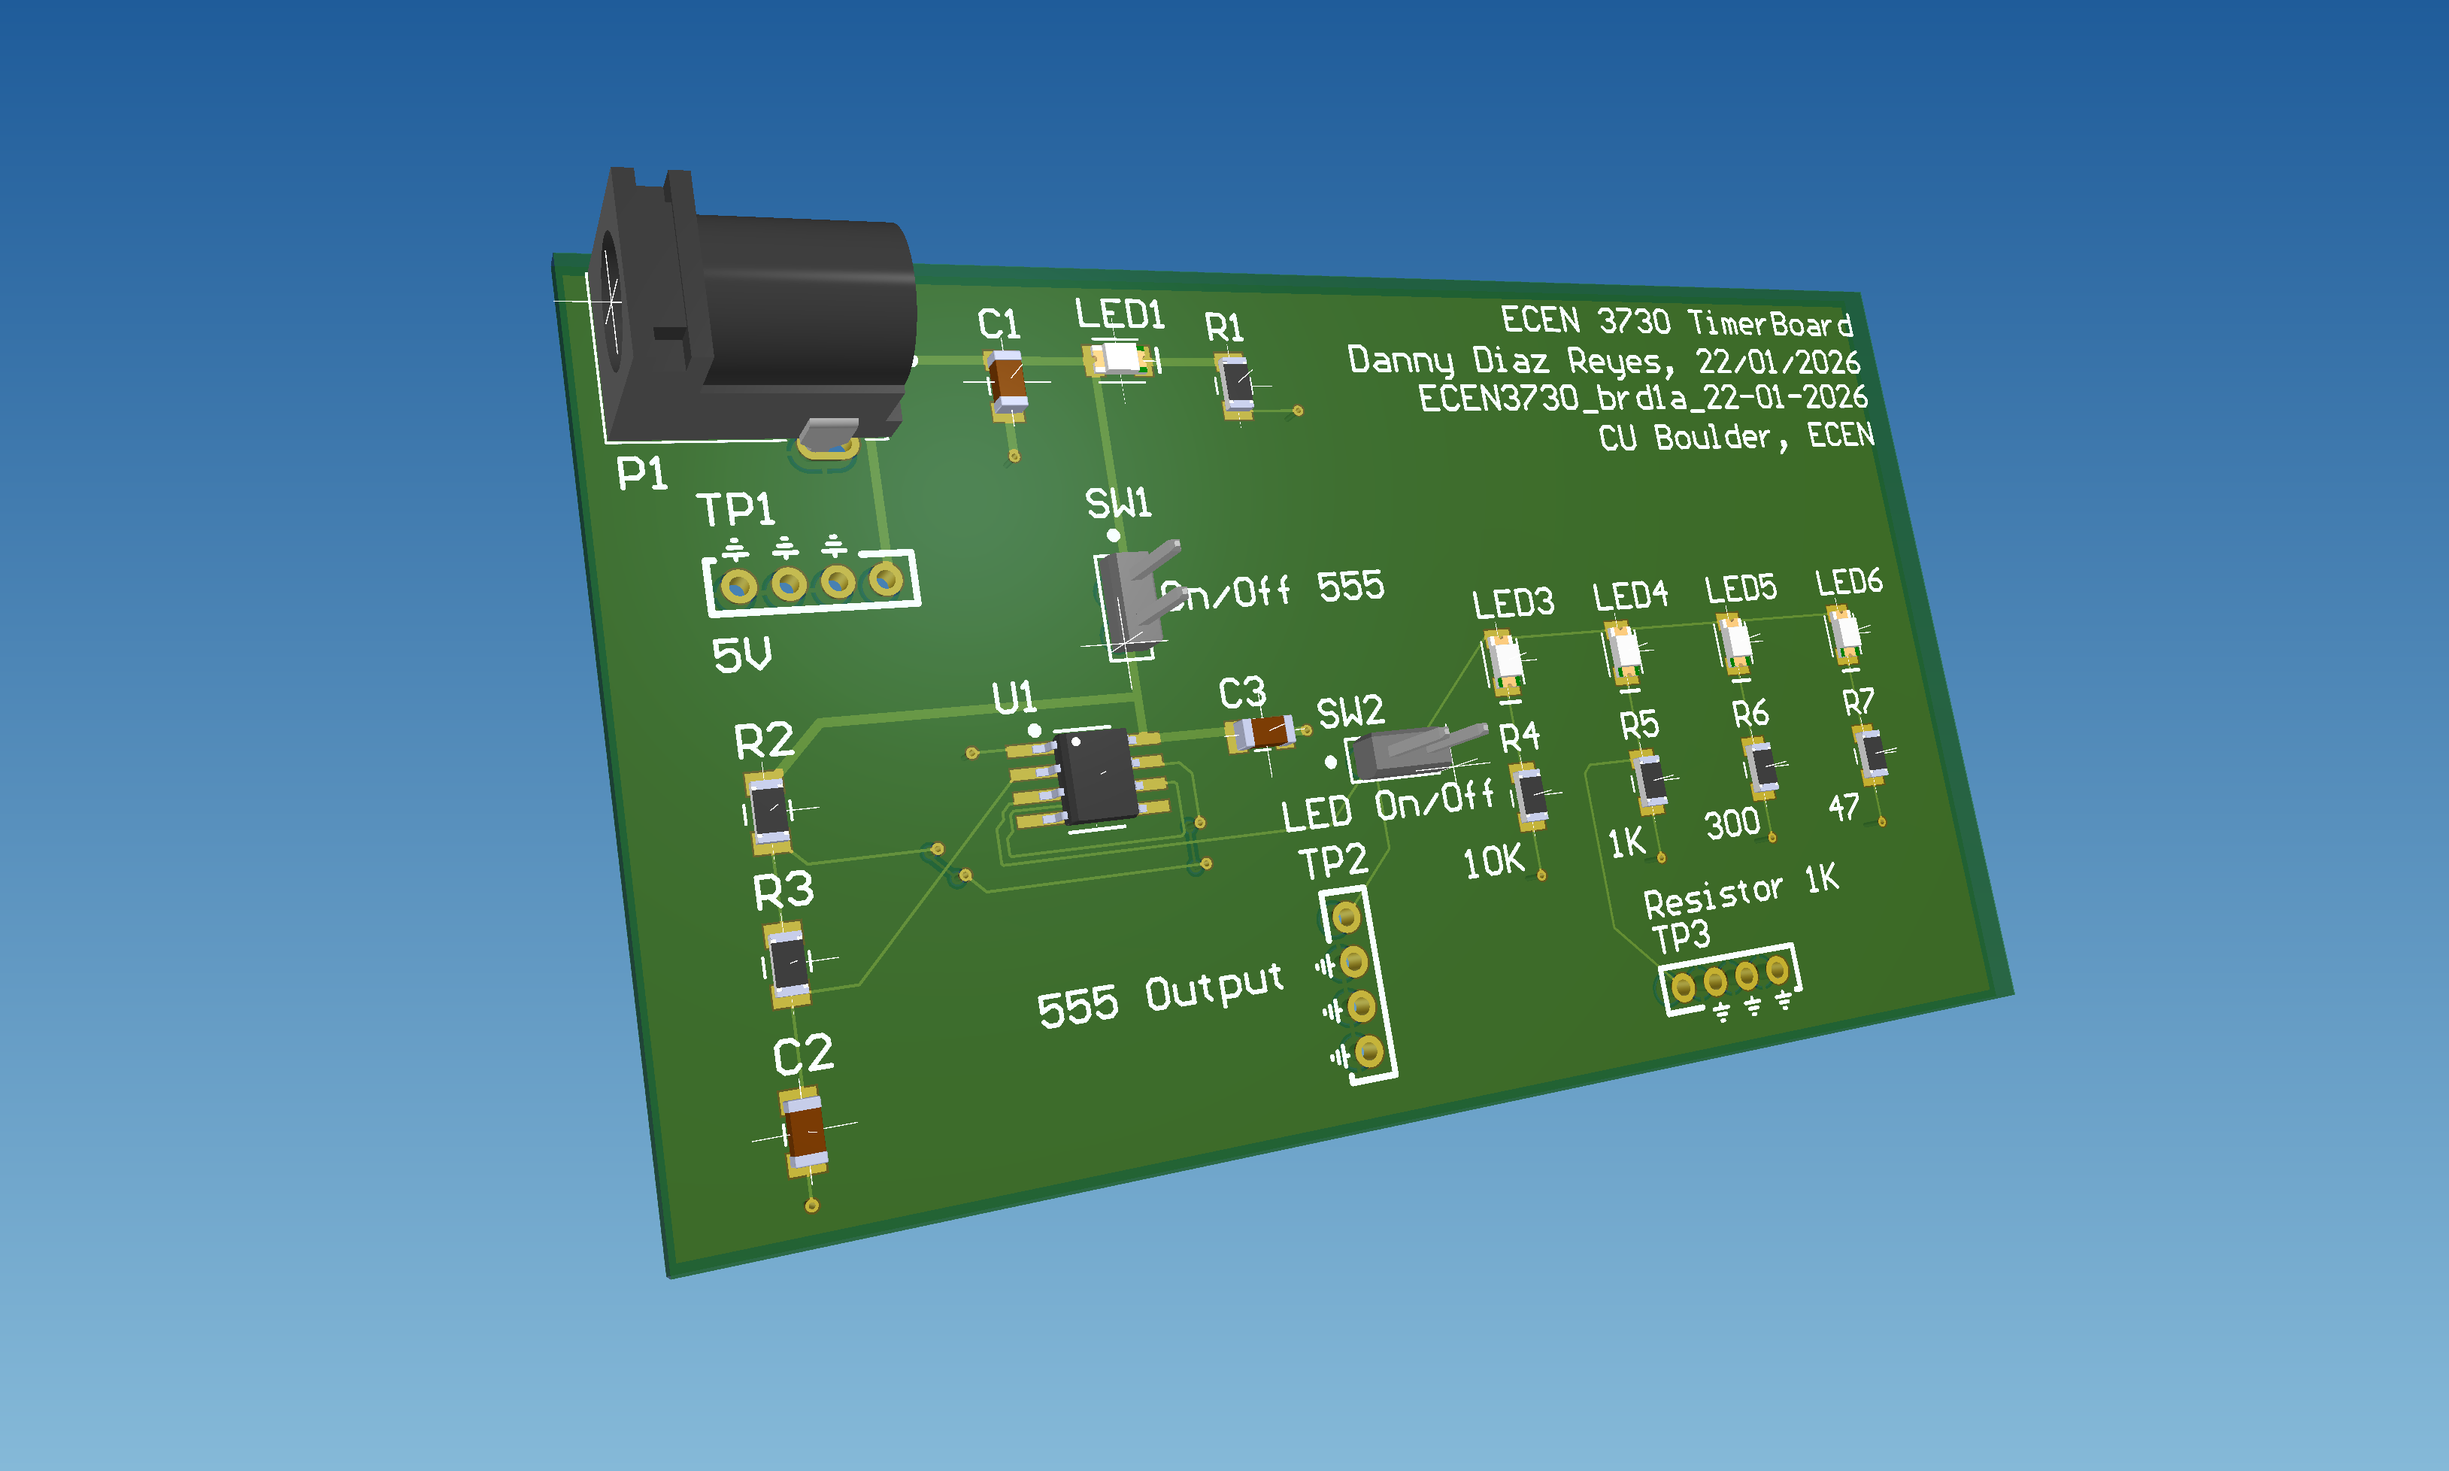
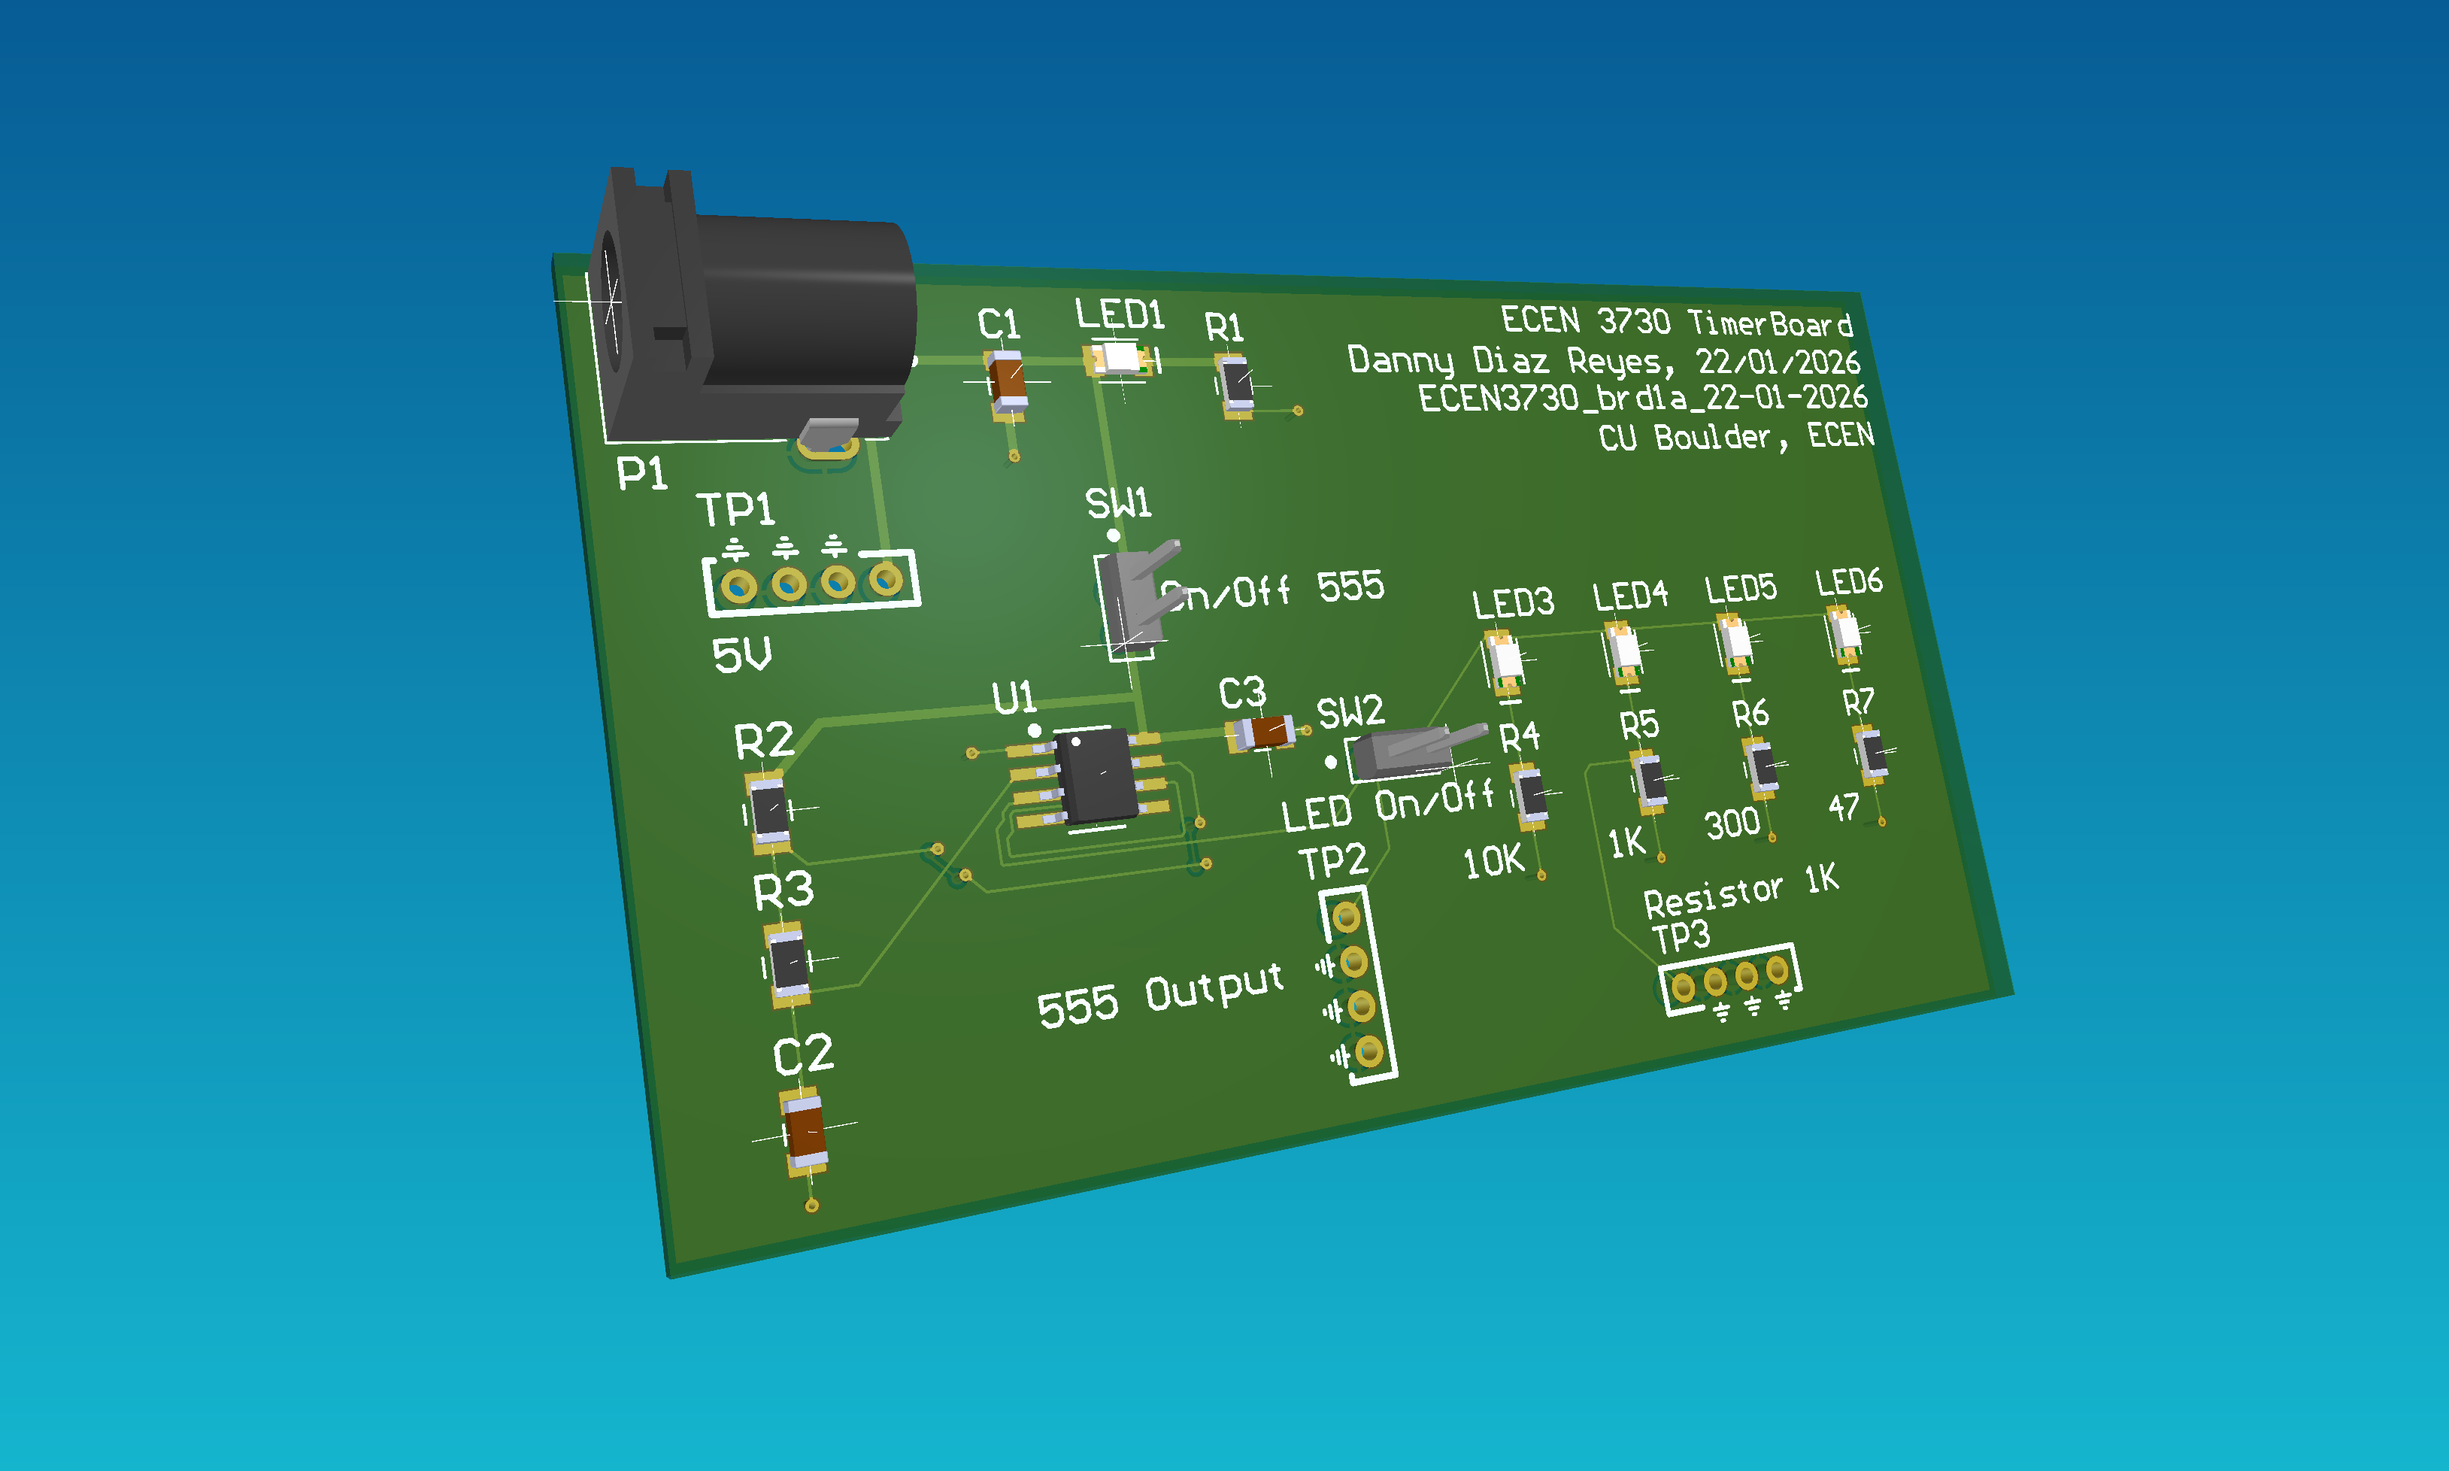
Cyan Test

diff --git a/_pcbs/board-1.md b/_pcbs/board-1.md
@@ -5,7 +5,7 @@ summary: >
   Designed and assembled a 5 V NE555 astable timer board targeting about
   500 Hz. Oscilloscope measurements verified frequency, switching noise,
   rise time, and output behavior under LED loads.
-image: /assets/board-1.png
+image: /assets/board-1-2.png
 image_alt: "Illustrative rendering of NE555 timer PCB"
 report: /documents/Board-1-Report.pdf
 ---
